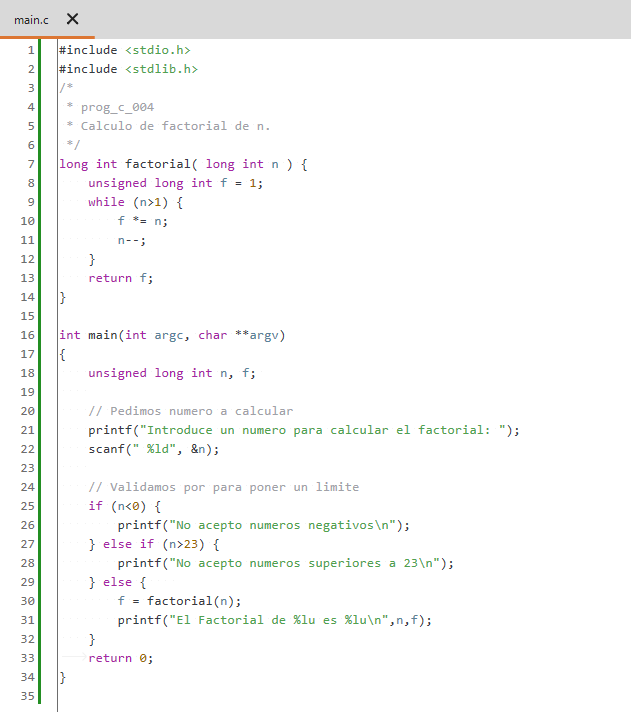
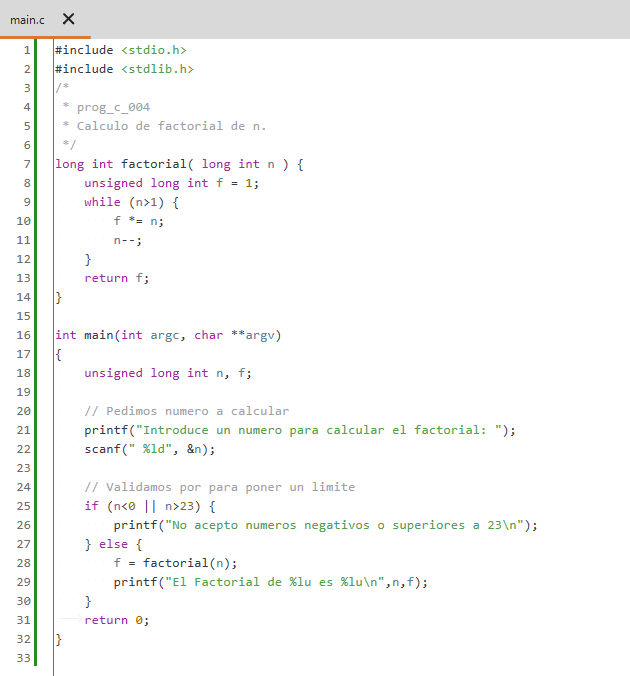
prog_c_004

Changed region(s): [[0.0, 0.0, 0.8143, 0.9941]]

diff --git a/src/prog_c_004/main.c b/src/prog_c_004/main.c
@@ -22,10 +22,8 @@ int main(int argc, char **argv)
     scanf(" %ld", &n);
     
     // Validamos por para poner un limite
-    if (n<0) {
-        printf("No acepto numeros negativos\n");
-    } else if (n>23) {
-        printf("No acepto numeros superiores a 23\n");
+    if (n<0 || n>23) {
+        printf("No acepto numeros negativos o superiores a 23\n");
     } else {    
         f = factorial(n);
         printf("El Factorial de %lu es %lu\n",n,f);

diff --git a/analisis/prog_c_004/prog_c_004.md b/analisis/prog_c_004/prog_c_004.md
@@ -13,60 +13,58 @@ Aquí introducimos también nuevas librerías y una entrada de datos si entrar e
 
 ![img_001](img/img_001.png "código fuente") 
 
-Aqui vemos el resultado de la ejecución.
+Aquí vemos el resultado de la ejecución.
 
 ![img_002](img/img_002.png "ejecución") 
 
 
 ## Análisis estático con Ghidra
 
-Pasamos a ver el código en **Ghidra**:
-
-
 ### Main
 
-Iremos directamente a la función **main()** a ver que nos encontramos.
+Analizando el **main()** veamos que novedades encontramos una vez cambiados los nombres autómaticos de las variables por los nuestros.
 
 ![img_003](img/img_003.png "main")
 
-El primer paso, como siempre, vamos a renombrar algunas variables para identificarlas mejor.
+Entraré ahora en un detalle que no he comentado en los análisis anteriores, y es en el espacio usado en la pila. Al principio de la función **main()** aparece arriba la definición de diferentes variables y su posición en la pila. Aquí podremos ver que estas posiciones que se cargan justo antes de las llamadas a las funciones son los parámetros que se pasan a estas, y que estas posiciones se reaprovechan de una función a otra, por lo que una vez identificadas se pueden renombrar como **parametro1**, **parametro2**, **parametro3**, etc...
 
-En el descompilado de Ghidra, como es habitual, simplifica el código y solo crea la variable que guarda el resultado de la suma, y la variable **n** no la crea, sinó que pone directamente el valor como parámetro de la función. 
+Como ejemplo, en el caso de la llamada al primer **printf**, como se carga como parámetro el texto que se muestra, y en este caso lo carga desde la sección de de datos **.rdata** (señalizado en amarillo).
 
-Esta diferencia se ve reflejada en el código en ensamblador donde se ve la creación de la variable **n** y posteriormente el movimiento a la pila donde se pasa como parámetro (indicado en color naranja).
+Algo similar pasa con la función **scanf()** que recibe dos parámetros. El segundo es la dirección de memoria de la variable donde va a almacenar el numero que se solicita, y el primer parámetro es el formato del contenido que se va a entrar (señalizado en rojo y celeste).
 
-![img_004](img/img_004.png "variables")
+Donde se aprecia una diferencia con el código original es en el **if** que teníamos con un **or** comparando con menor de 0 y mayor de 23 y aquí se ha simplificado en el código en ensamblador con un **CMP EAX, 0x17**, es decir, compara con 23 y si el resultado es menor o igual salta a la parte de código que llamará a la función.
 
-### Suma n enteros
+En la traducción del descompilado no es exactamente igual, pues lo traduce por un **if** comparando con **0x18** (24 dec), nótese esta diferencia (señalizado en verde).
 
-Pasamos a ver ahora la función de la suma, pero mostraré directamente las funciones con las variables renombradas, pues llegados a este punto creo que ya se entiende el procedimiento.
+Y otra curiosidad, y esto si es una optimización del compilador. Se ha sustituido el **printf** del mensaje de error, por un **puts** puesto que es un texto simple y no recibe ninguna cadena con formato ni variables adicionales (señalizado en rosa/morado).
 
-![img_005](img/img_005.png "suma n enteros")
+![img_004](img/img_004.png "main 2")
 
-Podemos comprobar que Ghidra no ha hecho un bucle **for**, sino lo ha convertido en un **while**, aunque ya sabemos que en ensamblador todos los bucles serán iguales por que serán todos compuestos por una comparación **CMP** seguida de un salto condicional, **JLE** en este caso. 
- 
+Ya centrándonos en la llamada a la función **factorial** podemos ver donde se carga el parámetro a pasar a la función (señalizado en verde), para luego recibir el resultado sobre el mismo registro **EAX**.
+
+Y para acabar carga los parámetros para la función **printf** con el resultado, siendo el **parámetro1** la cadena con el formato (en rojo), el **parámetro2** el número a calcular el factorial (en naranja), y el **parámetro3** el factorial calculado (en azul).
+
+### Factorial
+
+El la función principal de este programa podemos ver que el código en **C** generado es casi exacto al original. Podemos ver que las variables las declara como **int** en lugar de **long int** como está en el código original, por que en realidad el código en ensamblador lo sigue tratando con 32 bits.
+
+Se identifica sin problema la inicialización de la variable **f** que devuelve el factorial, el parametro **n**, que es el numero del que se desea el factorial, y es el contador del bucle, y la condición de control del bucle.
+
+![img_005](img/img_005.png "factorial")
 
 ## Análisis estático con Cutter
 
 ### Main
 
-Podemos observar como crea la variable **n** asignando el valor **0x32** (50 decimal) y como luego lo carga en la pila con **mov dword[esp],eax** (marcado en amarillo).
-
-El descompilado aparentemente comete un error por que nos muestra la llamada a la función **suma_n_enteros()** pasando 2 parámetros cuando en realidad solo es uno (señalado en verde).
-
-Después en el **printf()** previamente pasa 3 parámetros, el primero es la cadena de formato, el segundo es la variable **n**, y el tercero el resultado de la suma representado en el código con el registro **eax**, que previamente asigna a la variable **resultado_suma** pero que no se usa en el descompilado.
+Aquí **Cutter** nos ofrece en el Descompilado una estructura mas parecida al código ensamblador haciendo la comparación con el valor **0x17** (23 dec), también se aprecia sin problema la creación de variables y paso de parámetros, aunque el descompilador falla en este aspecto, pues en el último **printf** (señalado en rojo y con interrogante) pone el texto con la cadena de formato, pero no se incluyen las variables **n** y **f** que estan representadas por **param_n** y **param_f**.
 
 ![img_006](img/img_006.png "main")
 
-### Suma n enteros
+### Factorial
 
-La función de suma se muestra con un descompilado similar al que nos ofrece Ghidra; también usa un bucle **while**, aunque sigue fallando en la simplificación de variables y añade operaciones mostrando el registro **eax**.
+Ninguna novedad respecto a partes anteriores del análisis puesto que el ensamblador queda claro, y en la parte de descompilado adolece por la representación del uso de los registros del procesador, que si sabemos abstraer mentalmente nos quedan claras las operaciones del programa.
 
-En la parte del listado en ensamblador la diferencia frente a Ghidra es que las operaciones con variables son directamente con los nombres asignados, mostrando arriba la tabla de posiciones en la Pila, mientras que Ghidra nos muestra siempre un **EBP + variable**
-
-En el caso de los saltos usa siempre direcciones de memoria, frente a las etiquetas de Ghidra.
-
-![img_007](img/img_007.png "suma n enteros")
+![img_007](img/img_007.png "factorial")
 
 
 ### fin prog_c_004
